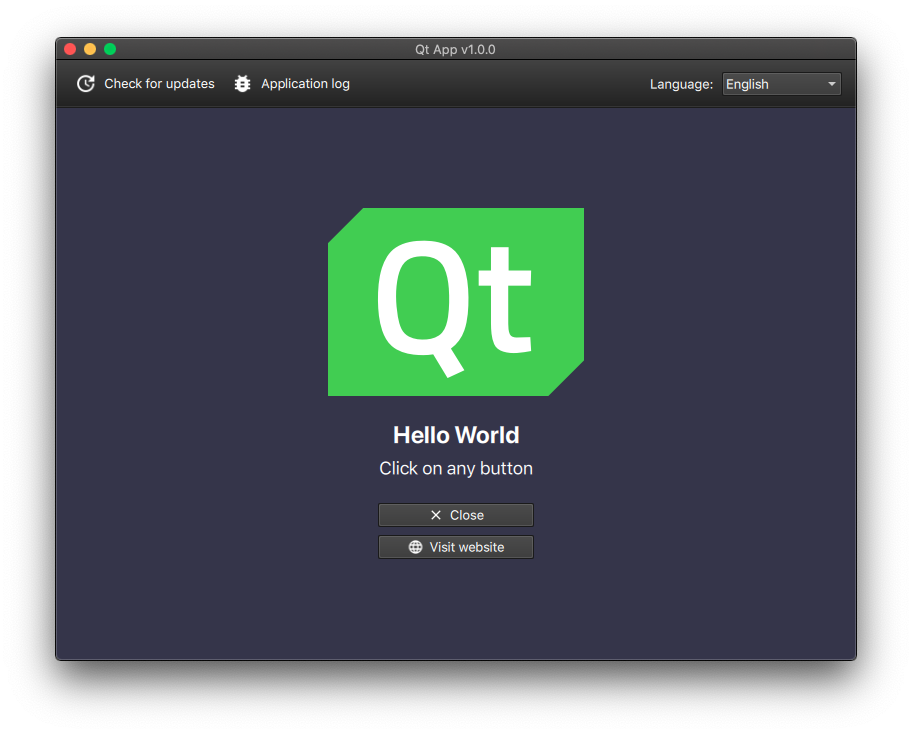
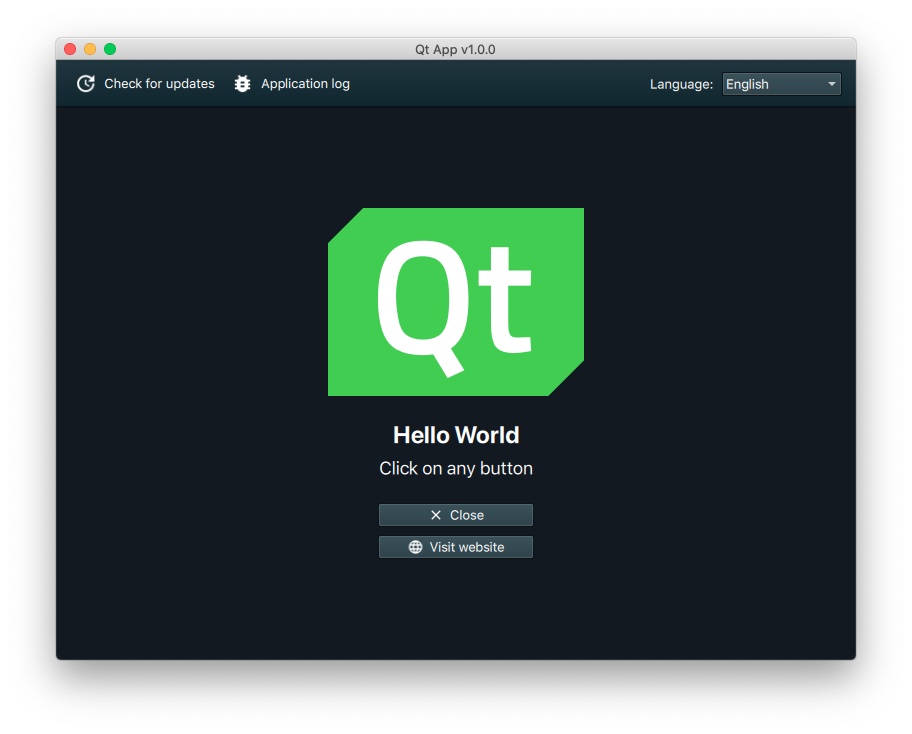
Change app palette to match Serial Studio

diff --git a/assets/qml/UI.qml b/assets/qml/UI.qml
@@ -39,18 +39,18 @@ Page {
         //
         Rectangle {
             border.width: 1
-            border.color: palette.alternateBase
+            border.color: palette.midlight
+
+            gradient: Gradient {
+                GradientStop { position: 0; color: "#21373f" }
+                GradientStop { position: 1; color: "#11272f" }
+            }
 
             anchors {
                 fill: parent
                 topMargin: -border.width
                 leftMargin: -border.width * 10
                 rightMargin: -border.width * 10
-            }
-
-            gradient: Gradient {
-                GradientStop { position: 1; color: "#222" }
-                GradientStop { position: 0; color: "#444" }
             }
         }
 
@@ -108,7 +108,7 @@ Page {
     // Background color
     //
     background: Rectangle {
-        color: "#35354a"
+        color: app.windowBackgroundColor
     }
 
     //

diff --git a/assets/qml/main.qml b/assets/qml/main.qml
@@ -39,6 +39,8 @@ ApplicationWindow {
     // Global properties
     //
     readonly property int spacing: 8
+    readonly property color foregroundColor: "#ffffff"
+    readonly property color windowBackgroundColor: "#121920"
     readonly property string monoFont: {
         switch (Qt.platform.os) {
         case "osx":
@@ -91,11 +93,12 @@ ApplicationWindow {
     title: Cpp_AppName + " v" + Cpp_AppVersion
 
     //
-    // Fusion palette hacks (I don't know why these specefic values are ignored from the
-    // C++ generated palette)
+    // Theme options
     //
-    palette.base: "#191919"
-    palette.buttonText: "#ffffff"
+    palette.text: app.foregroundColor
+    palette.buttonText: app.foregroundColor
+    palette.windowText: app.foregroundColor
+    palette.window: app.windowBackgroundColor
 
     //
     // Display the window & check for updates in 500 ms (we do this so that

diff --git a/src/Misc/Utilities.cpp b/src/Misc/Utilities.cpp
@@ -97,20 +97,19 @@ void Utilities::configureDarkUi()
 
     // clang-format off
     QPalette palette;
-    palette.setColor(QPalette::Base,            QColor("#191919"));
-    palette.setColor(QPalette::Link,            QColor("#2a82da"));
-    palette.setColor(QPalette::Button,          QColor("#353535"));
-    palette.setColor(QPalette::Window,          QColor("#252525"));
+    palette.setColor(QPalette::Base,            QColor("#21373f"));
+    palette.setColor(QPalette::Link,            QColor("#409da0"));
+    palette.setColor(QPalette::Button,          QColor("#21373f"));
+    palette.setColor(QPalette::Window,          QColor("#21373f"));
     palette.setColor(QPalette::Text,            QColor("#ffffff"));
-    palette.setColor(QPalette::Midlight,        QColor("#2a82da"));
-    palette.setColor(QPalette::Highlight,       QColor("#2a82da"));
-    palette.setColor(QPalette::BrightText,      QColor("#ff0000"));
+    palette.setColor(QPalette::Midlight,        QColor("#0e1419"));
+    palette.setColor(QPalette::Highlight,       QColor("#409da0"));
+    palette.setColor(QPalette::BrightText,      QColor("#ffffff"));
     palette.setColor(QPalette::ButtonText,      QColor("#ffffff"));
     palette.setColor(QPalette::WindowText,      QColor("#ffffff"));
-    palette.setColor(QPalette::ToolTipBase,     QColor("#ffffff"));
-    palette.setColor(QPalette::ToolTipText,     QColor("#ffffff"));
-    palette.setColor(QPalette::AlternateBase,   QColor("#353535"));
-    palette.setColor(QPalette::HighlightedText, QColor("#000000"));
+    palette.setColor(QPalette::ToolTipBase,     QColor("#e6e0b2"));
+    palette.setColor(QPalette::ToolTipText,     QColor("#e6e0b2"));
+    palette.setColor(QPalette::HighlightedText, QColor("#e6e0b2"));
     qApp->setPalette(palette);
     // clang-format on
 }
